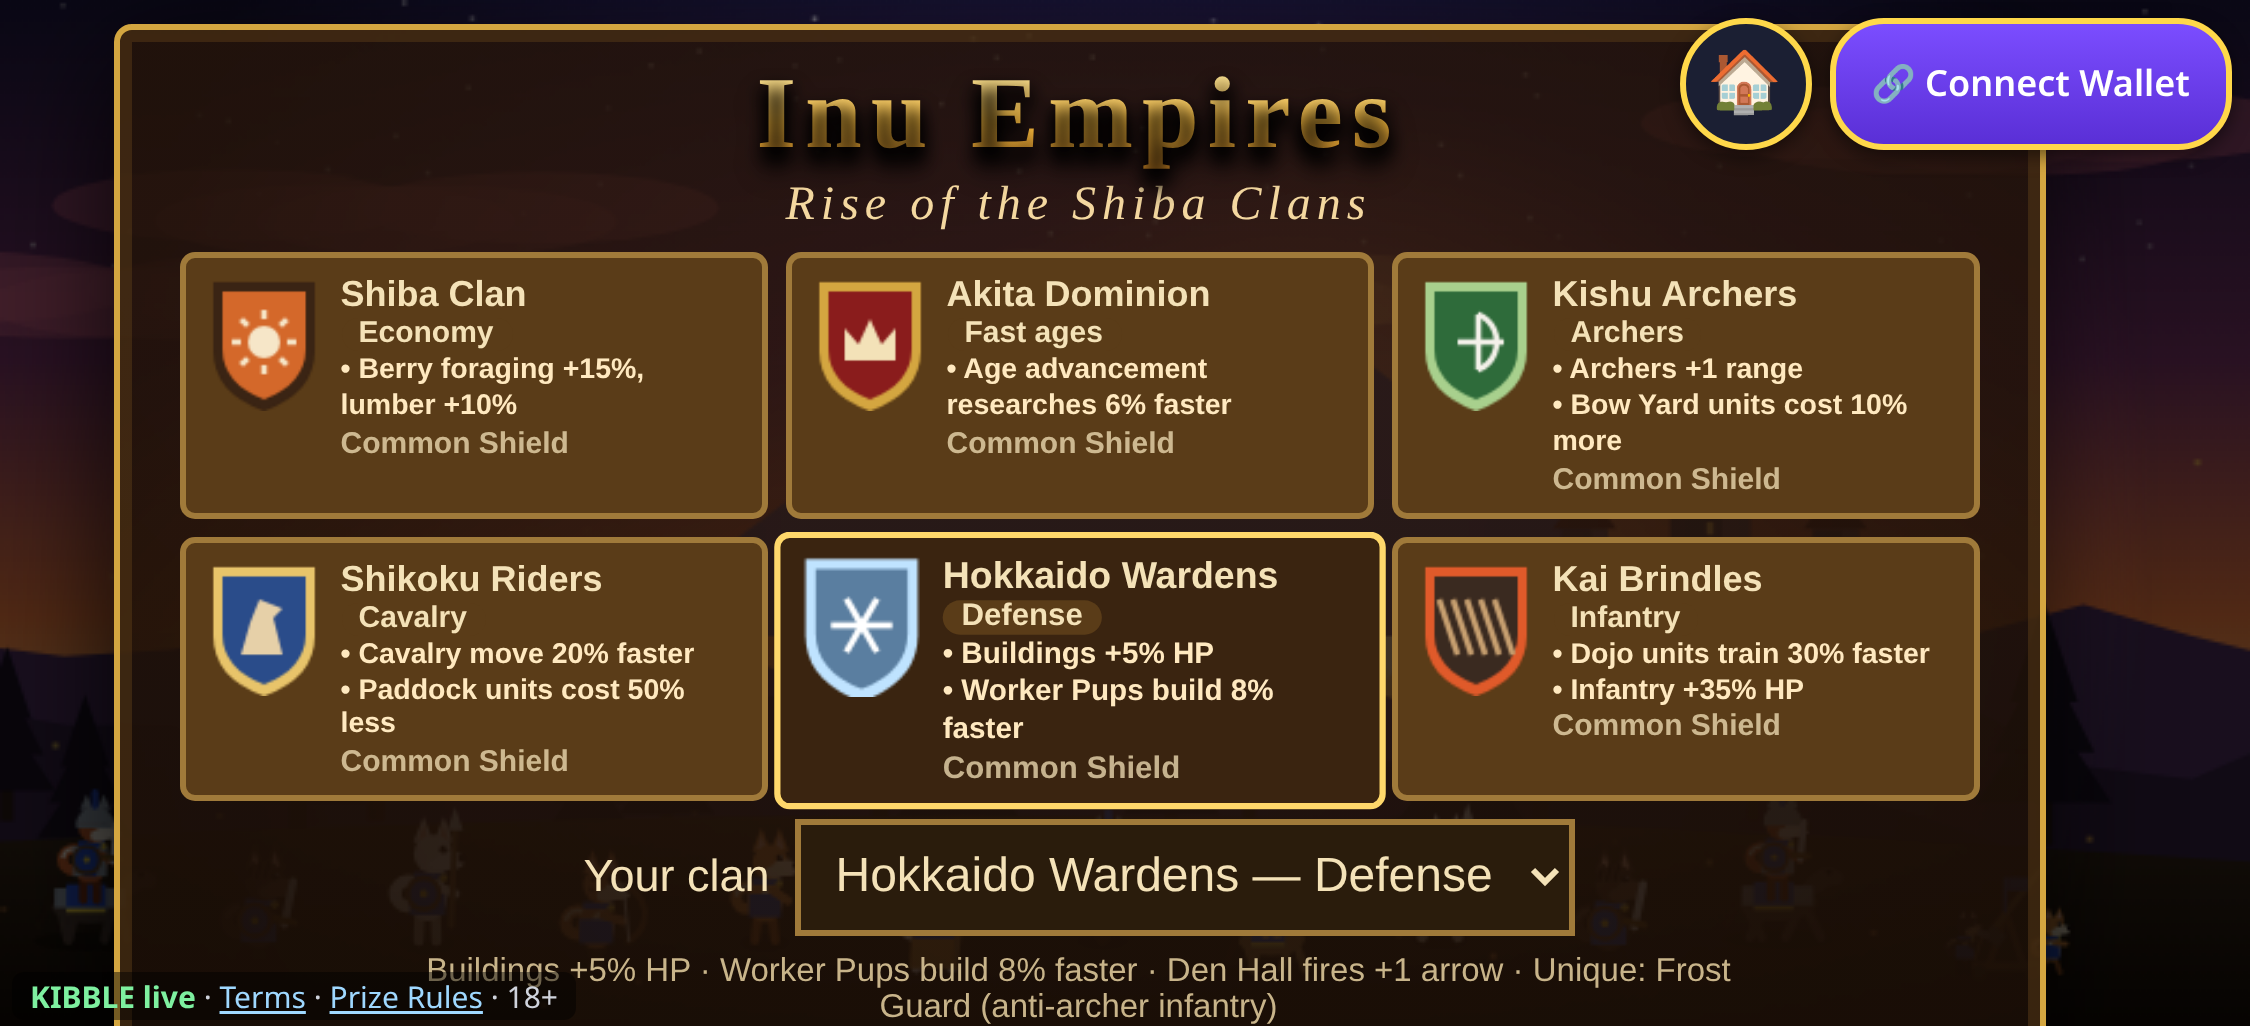
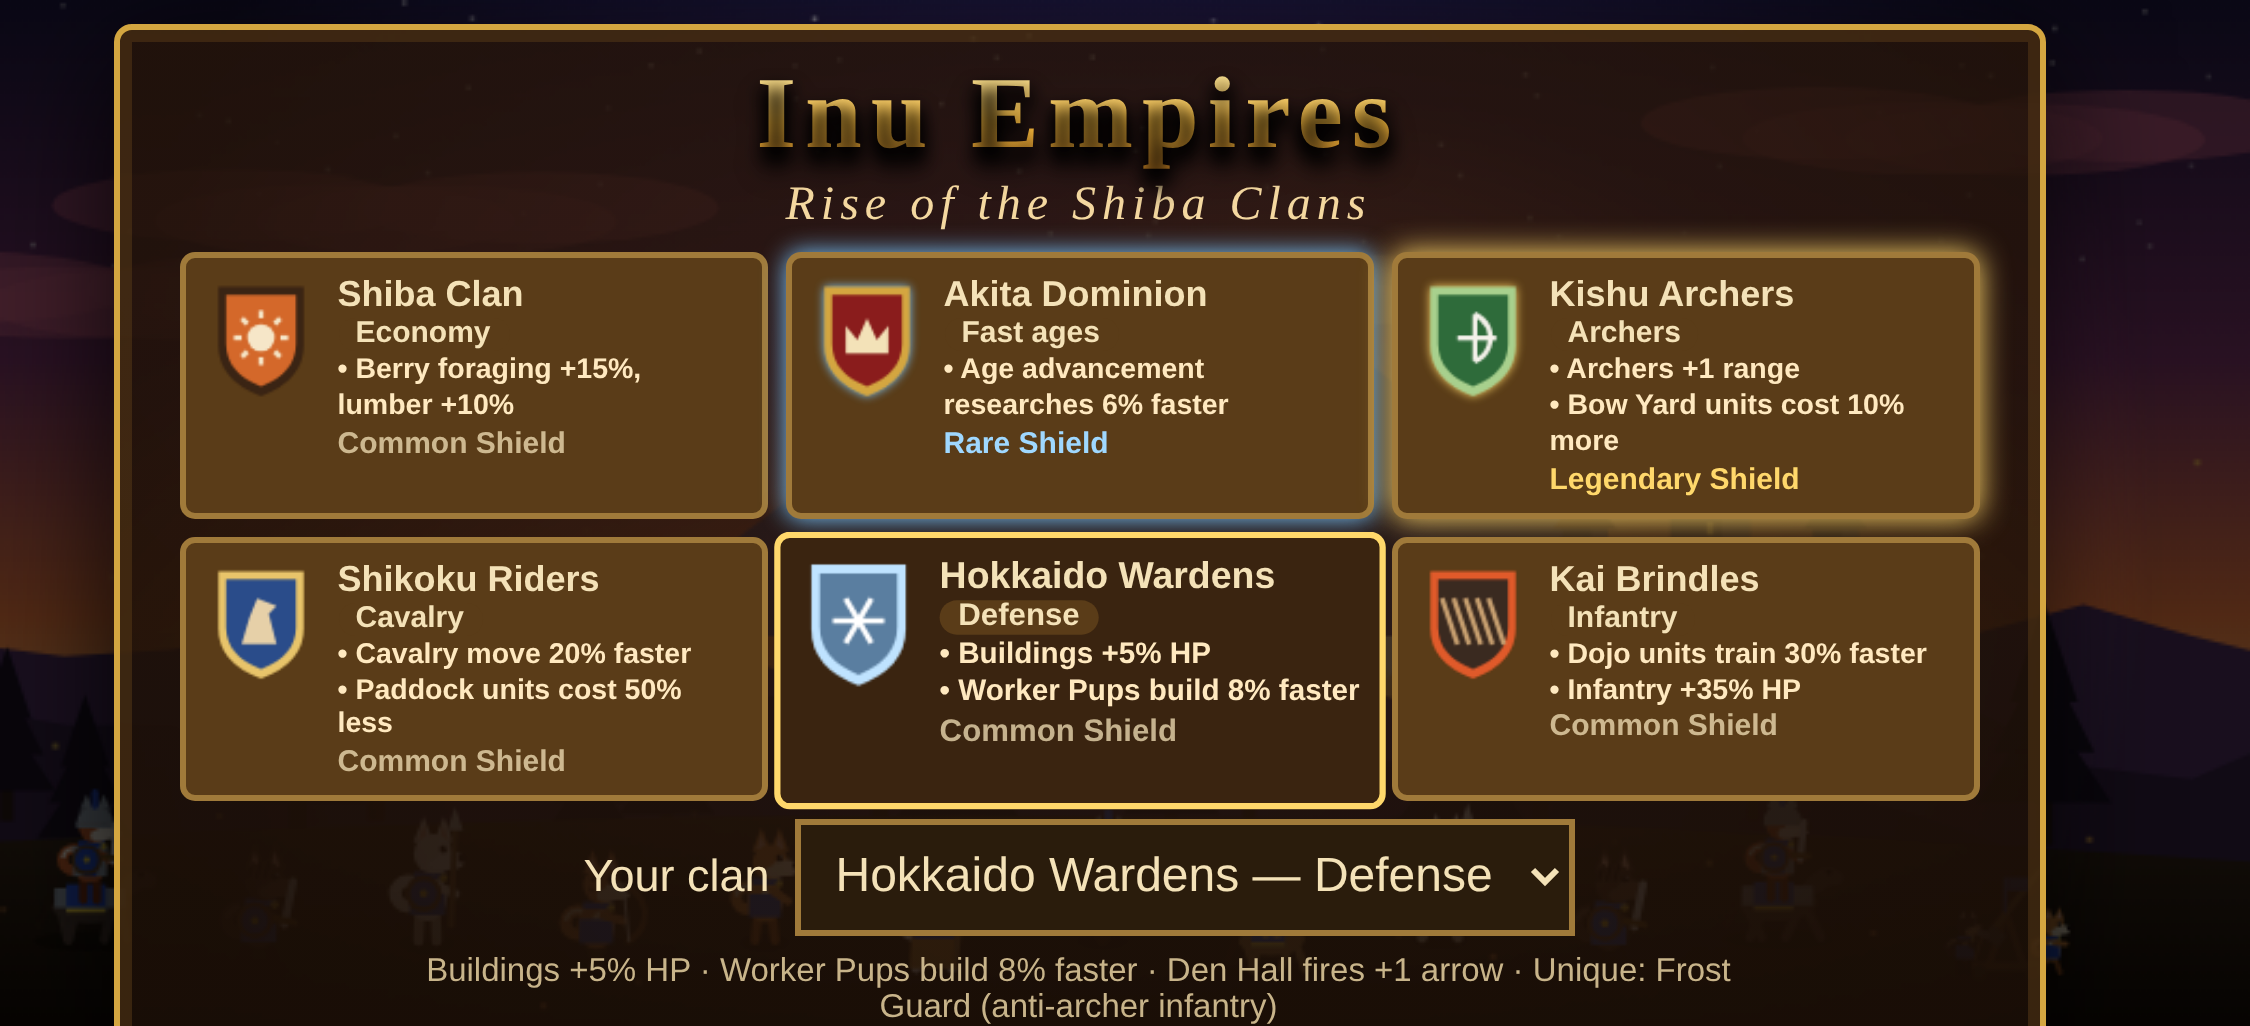
Clan cards: owned-finish glow was clipped in layout B (52x60 canvas left 4px round the shield: halo cut square, Kishu legendary pulse fully off-canvas so it never moved) -> 64x72 canvas, shield at 0.9, halo fades inside; finish label coloured (rare blue / legendary gold) in A and B. ctl run lobby: s

diff --git a/src/civcards.js b/src/civcards.js
@@ -56,7 +56,7 @@ export function mountCivCards(root, { owned = [], selected = 'shiba', onPick = (
     const r = rar(id), el = document.createElement('button'); el.type = 'button'; el.className = `civ-card rar-${r}${id === selected ? ' sel' : ''}`; el.dataset.civ = id;
     const rarTag = `<i class="rar" title="Cosmetic shield finish from Kibble cosmetics. No gameplay effect.">${r} shield</i>`;
     el.innerHTML = variant === 'b'
-      ? `<canvas width="52" height="60" class="shield"></canvas><span class="txt"><b>${CIVS[id].name}</b><small class="chip">${CIVS[id].style}</small><span class="tr">${CIVS[id].traits.filter(t => !t.startsWith('Unique')).slice(0, 2).map(t => `<span>• ${t}</span>`).join('')}</span><span class="uq">${CIVS[id].traits.find(t => t.startsWith('Unique')) || ''}</span>${rarTag}</span>`
+      ? `<canvas width="64" height="72" class="shield"></canvas><span class="txt"><b>${CIVS[id].name}</b><small class="chip">${CIVS[id].style}</small><span class="tr">${CIVS[id].traits.filter(t => !t.startsWith('Unique')).slice(0, 2).map(t => `<span>• ${t}</span>`).join('')}</span><span class="uq">${CIVS[id].traits.find(t => t.startsWith('Unique')) || ''}</span>${rarTag}</span>`
       : `<canvas width="176" height="104"></canvas><b>${CIVS[id].name}</b><small>${CIVS[id].style}</small>${rarTag}`;
     const card = { id, el, cv: el.querySelector('canvas'), cineAt: 0, rarity: r }; cards.push(card);
     const start = () => { card.cineAt = performance.now(); el.classList.add('cine'); };
@@ -68,7 +68,7 @@ export function mountCivCards(root, { owned = [], selected = 'shiba', onPick = (
   let raf = 0; const loop = now => { if (!root.isConnected || root.offsetParent === null) { raf = requestAnimationFrame(loop); return; }
     for (const c of cards) { const ctx = c.cv.getContext('2d'), age = c.cineAt ? (now - c.cineAt) / CINE_MS : 1;
       if (age >= 1 && c.el.classList.contains('cine')) c.el.classList.remove('cine');
-      if (variant === 'b') { ctx.clearRect(0, 0, c.cv.width, c.cv.height); drawShield(ctx, 26, 30, age < 1 ? 1.05 + 0.05 * Math.sin(age * 20) : 1, c.id, now / 1000, c.rarity); }
+      if (variant === 'b') { ctx.clearRect(0, 0, c.cv.width, c.cv.height); drawShield(ctx, 32, 34, 0.9 * (age < 1 ? 1.05 + 0.05 * Math.sin(age * 20) : 1), c.id, now / 1000, c.rarity); } // canvas leaves ~10px round the shield so an owned finish's glow is not clipped
       else paintCard(ctx, c.id, c.cv.width, c.cv.height, now / 1000, age < 1 ? Math.max(0.001, age) : 0, c.rarity); }
     raf = requestAnimationFrame(loop); };
   raf = requestAnimationFrame(loop);

diff --git a/index.html b/index.html
@@ -47,8 +47,8 @@ body.ingame #minimap{display:block}
 #civ-cards .civ-card{padding:3px!important;min-width:0!important;min-height:0!important;width:auto!important;font-size:11px!important;margin:0!important}
 .civ-card{position:relative;display:flex;flex-direction:column;align-items:center;padding:4px;background:#1a0e06;border:2px solid #5a3c18;color:#f4e2b8;border-radius:5px;cursor:pointer;min-width:0;font:12px sans-serif}
 .civ-card canvas{width:100%;max-width:176px;aspect-ratio:176/104;border-radius:3px;display:block}.civ-card b{font-size:12px;margin-top:2px}.civ-card small{opacity:.8}
-.civ-card .rar{font-size:10px;font-style:normal;text-transform:capitalize;opacity:.75}.civ-card.rar-rare{box-shadow:0 0 8px #7ac8ff}.civ-card.rar-legendary{box-shadow:0 0 10px #ffd86b}
-#civ-cards[data-ui=b] .civ-card{flex-direction:row;align-items:flex-start;gap:6px;text-align:left;padding:5px 6px!important}#civ-cards[data-ui=b] canvas.shield{width:40px;max-width:40px;aspect-ratio:52/60;flex:none}
+.civ-card .rar{font-size:10px;font-style:normal;text-transform:capitalize;opacity:.75}.civ-card.rar-rare{box-shadow:0 0 8px #7ac8ff}.civ-card.rar-legendary{box-shadow:0 0 10px #ffd86b}.civ-card.rar-rare .rar{color:#9fd8ff;opacity:1}.civ-card.rar-legendary .rar{color:#ffd86b;opacity:1}
+#civ-cards[data-ui=b] .civ-card{flex-direction:row;align-items:flex-start;gap:6px;text-align:left;padding:5px 6px!important}#civ-cards[data-ui=b] canvas.shield{width:46px;max-width:46px;aspect-ratio:64/72;flex:none;margin:-3px -3px -3px -4px}
 #civ-cards[data-ui=b] .txt{display:flex;flex-direction:column;gap:1px;min-width:0}#civ-cards[data-ui=b] .txt b{margin:0;font-size:12px}#civ-cards[data-ui=b] .chip{align-self:flex-start;background:#5a3c18;border-radius:8px;padding:0 6px;font-size:10px;opacity:1}
 #civ-cards[data-ui=b] .tr{display:flex;flex-direction:column;font-size:10.5px;line-height:1.25;color:#ffe9c0}#civ-cards[data-ui=b] .uq{font-size:10px;color:#ffd86b;line-height:1.2}
 @media (max-height:520px){#civ-cards[data-ui=b]{grid-template-columns:repeat(3,minmax(0,1fr));overflow:visible;max-width:calc(100vw - 60px)}#civ-cards[data-ui=b] .tr{font-size:9.5px}#civ-cards[data-ui=b] .uq{display:none}}
